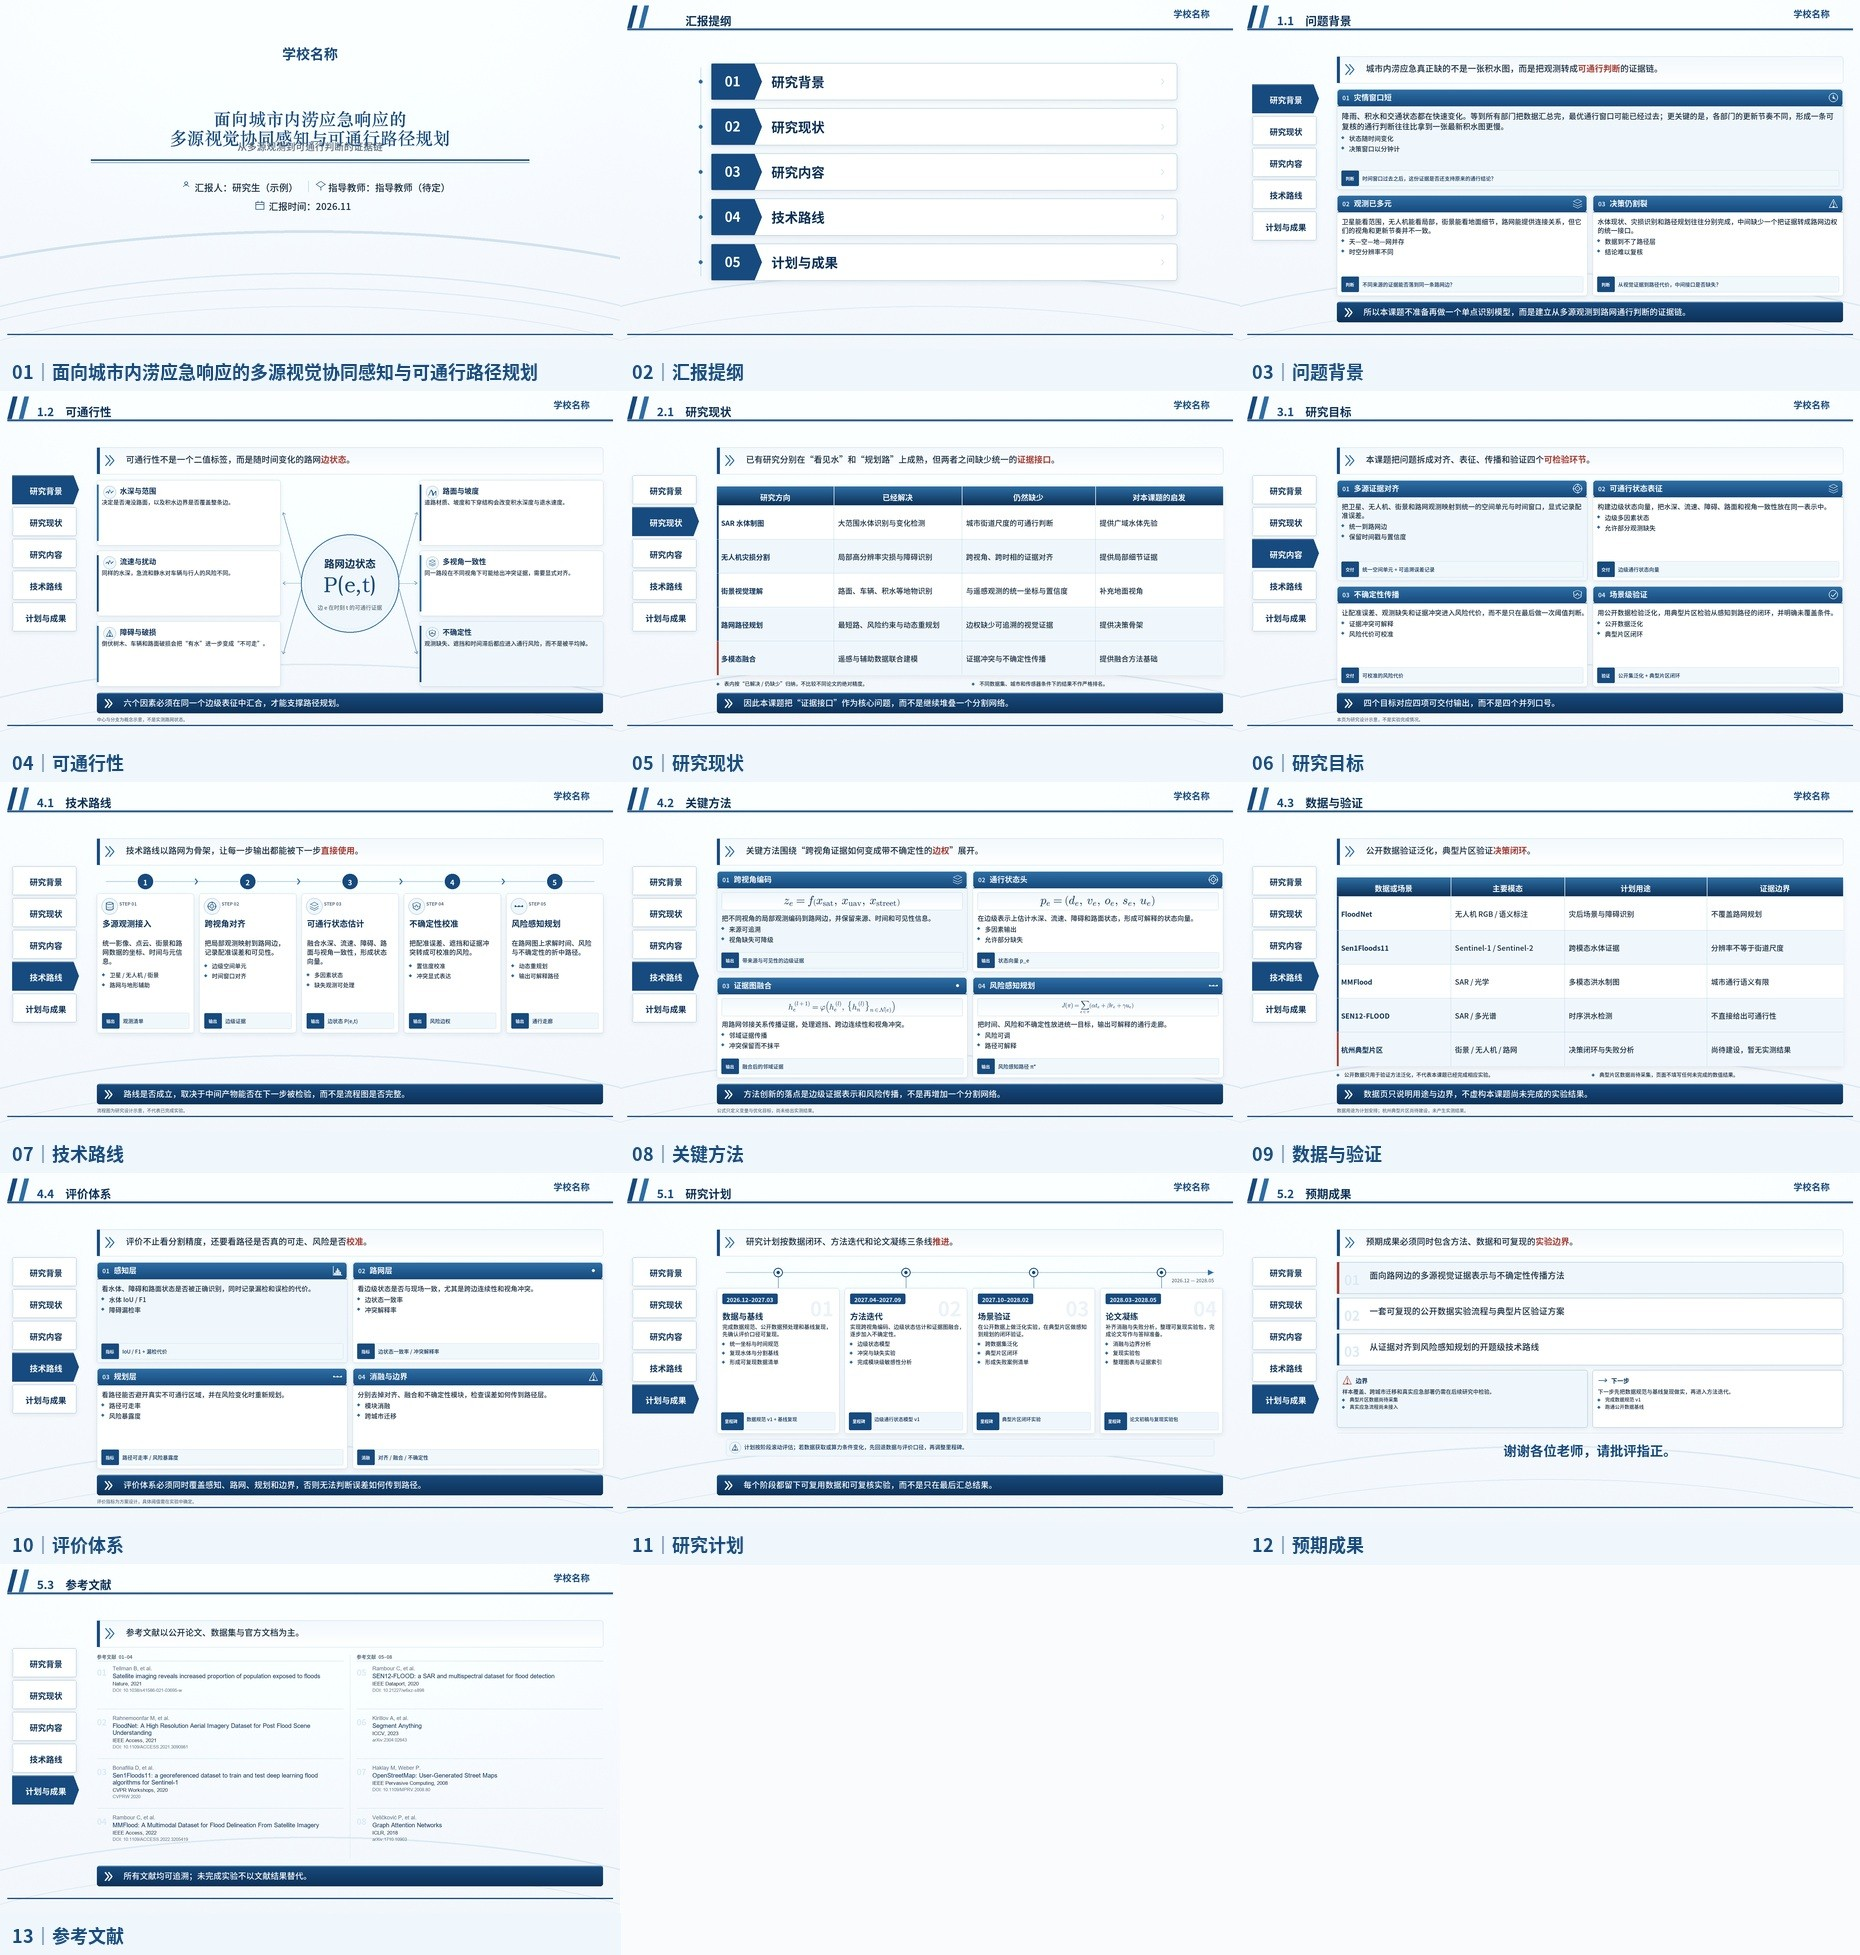
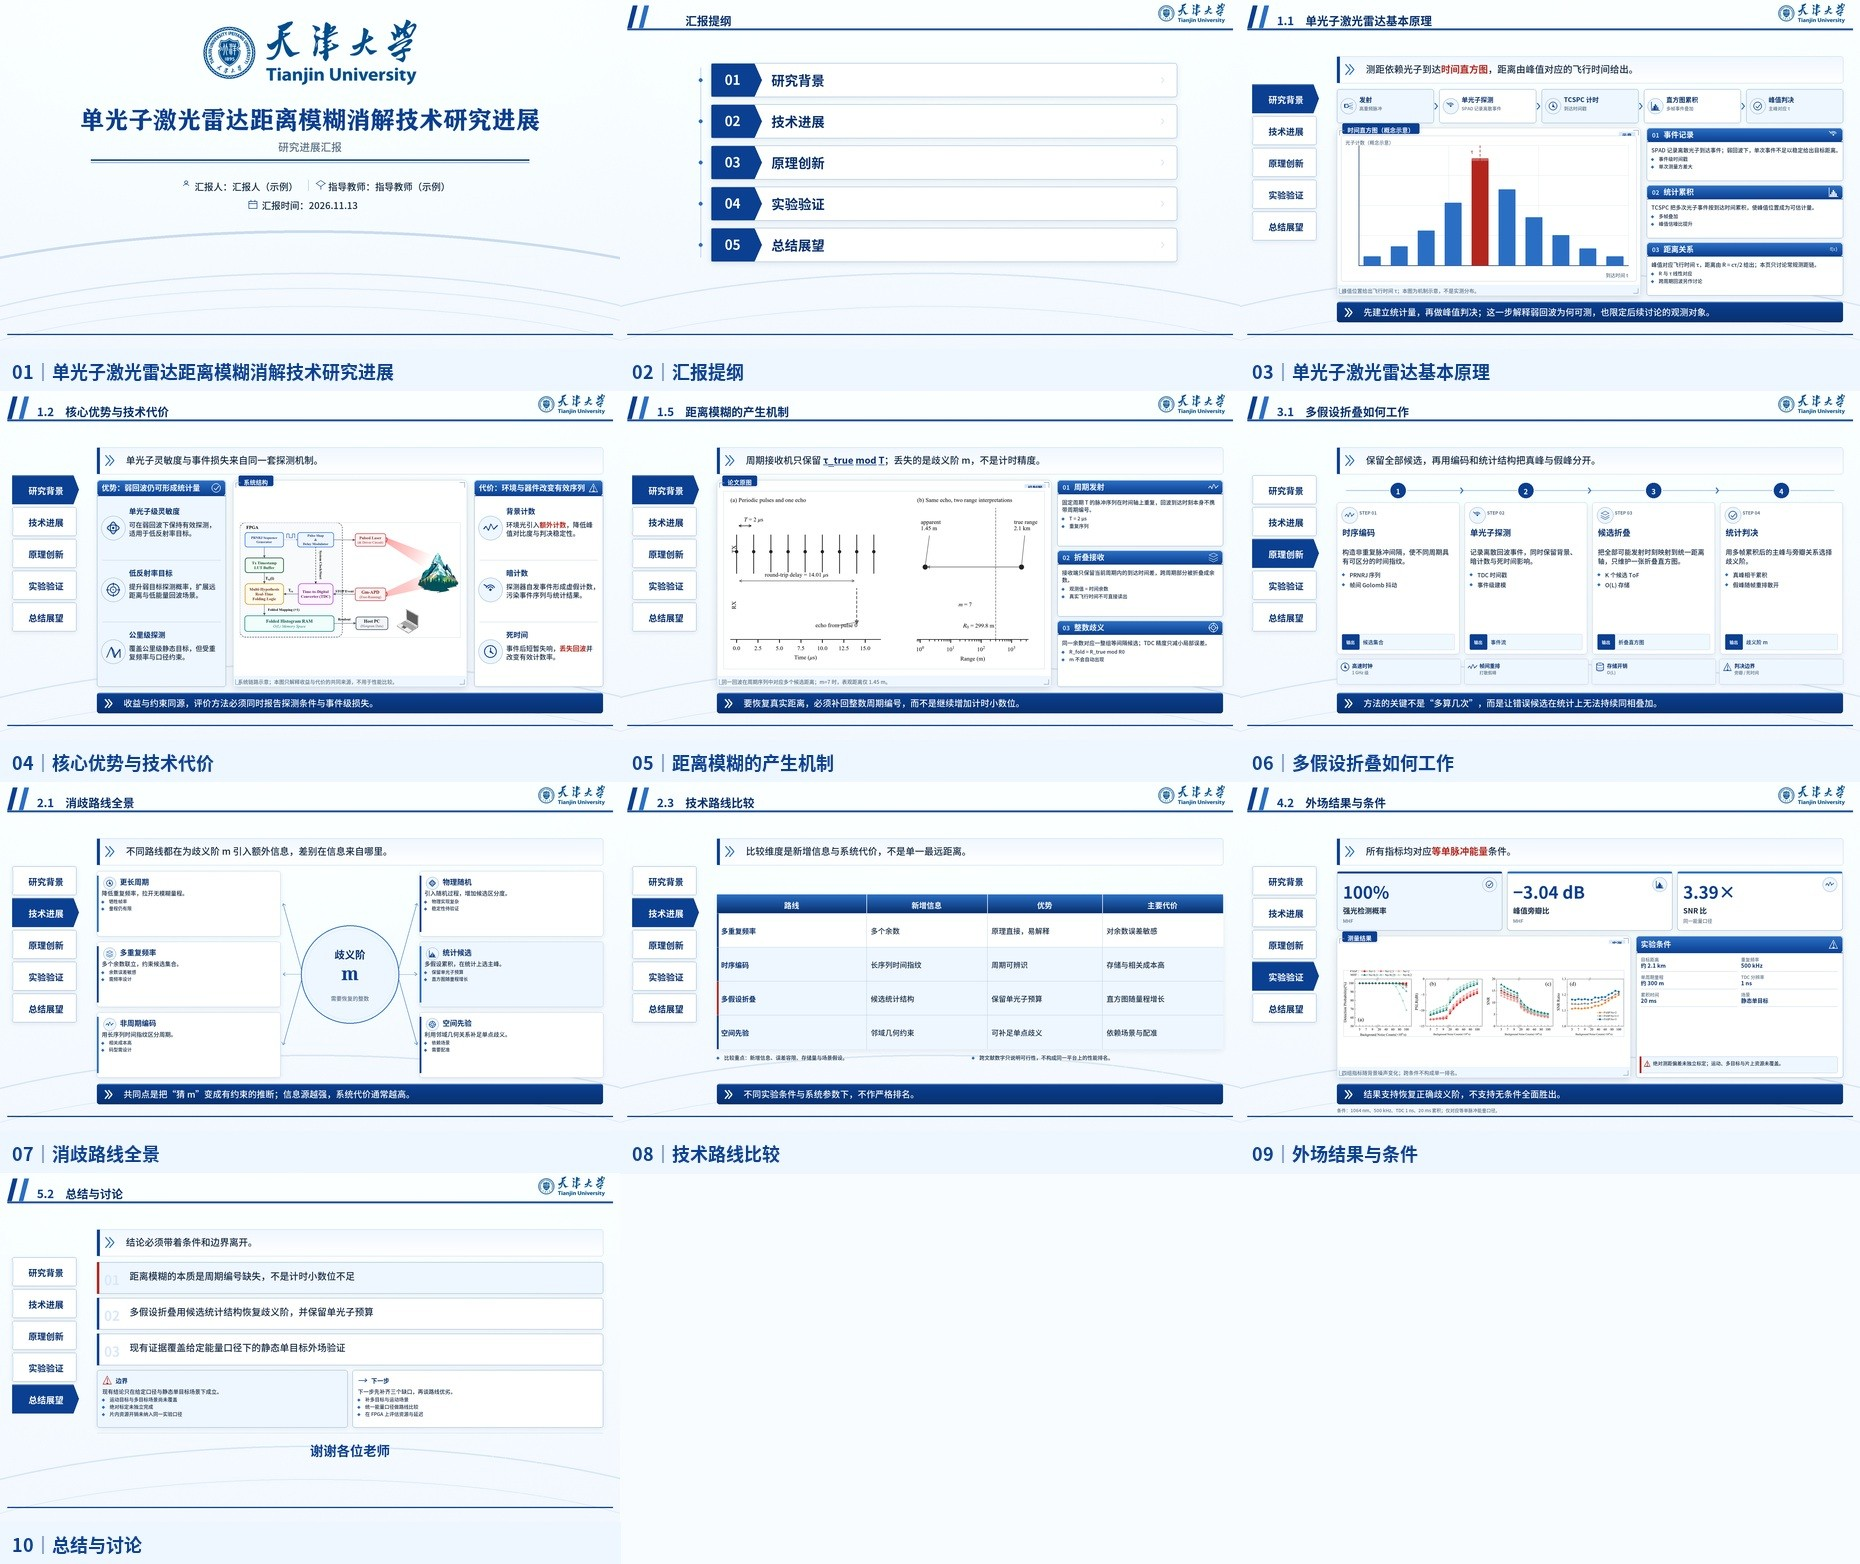
Rename skill and update single-photon preview

Changed region(s): [[0.0, 0.0, 0.9978, 1.0], [0.0312, 0.0, 0.3118, 0.1535]]

diff --git a/README.md b/README.md
@@ -1,4 +1,4 @@
-# Academic Defense Deck
+# Academic PPT Skill
 
 一个面向学术汇报的 Codex Skill：把论文、提纲、图片、学校身份信息与时间限制，整理成结构稳定的答辩 / 开题 / 中期 / 课程汇报幻灯片，并生成自然讲述稿。
 
@@ -8,7 +8,9 @@
 
 ## Preview
 
-![Academic Defense Deck preview](docs/preview.jpg)
+![单光子激光雷达答辩 PPT 预览](docs/preview.jpg)
+
+预览主题：`单光子激光雷达距离模糊消解技术研究进展`。示例中的汇报人和导师已匿名化。
 
 示例内容仅用于演示排版能力，不代表真实研究成果或学校官方背书。
 
@@ -34,20 +36,20 @@
 ### 方式一：作为 Codex Skill 安装
 
 ```bash
-git clone https://github.com/gxy2574927925-0512/academic-defense-deck.git
+git clone https://github.com/gxy2574927925-0512/academic-ppt-skill.git
 ```
 
 将仓库放到 Codex 的 skills 目录：
 
 ```text
-macOS / Linux:  ~/.codex/skills/academic-defense-deck
-Windows:        %USERPROFILE%\.codex\skills\academic-defense-deck
+macOS / Linux:  ~/.codex/skills/academic-ppt-skill
+Windows:        %USERPROFILE%\.codex\skills\academic-ppt-skill
 ```
 
 然后重新加载 Codex。调用示例：
 
 ```text
-使用 $academic-defense-deck，根据这篇论文和学校素材生成 15 页开题报告。
+使用 $academic-ppt-skill，根据这篇论文和学校素材生成 15 页开题报告。
 ```
 
 ### 方式二：直接在仓库中运行

diff --git a/SKILL.md b/SKILL.md
@@ -1,11 +1,11 @@
 ---
-name: academic-defense-deck
+name: academic-ppt-skill
 description: Create academic defense, proposal, midterm, course, competition, and literature-review decks with fixed institutional branding, structured slides, figure-aware speaker notes, and a natural defense script. Use when visual consistency and claim-evidence discipline matter more than one-off slide decoration.
 metadata:
   short-description: Academic defense decks and speeches
 ---
 
-# Academic Defense Deck
+# Academic PPT Skill（学术汇报 PPT）
 
 Build the deck as structured content plus a deterministic rendering layer. Do not ask an image model to render exact Chinese titles, school names, seals, page numbers, or fixed headers.
 
